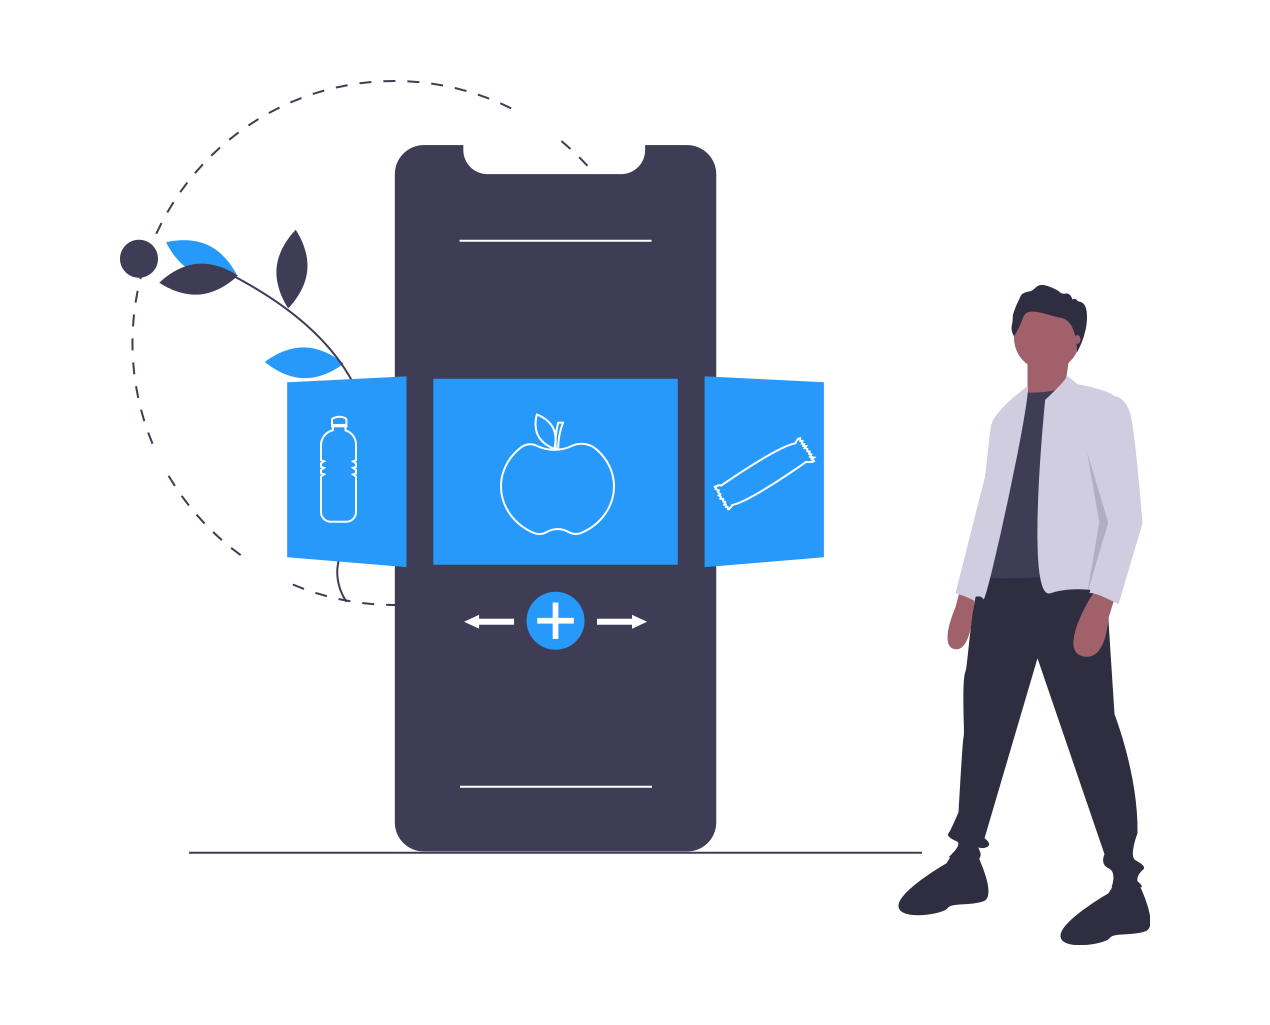
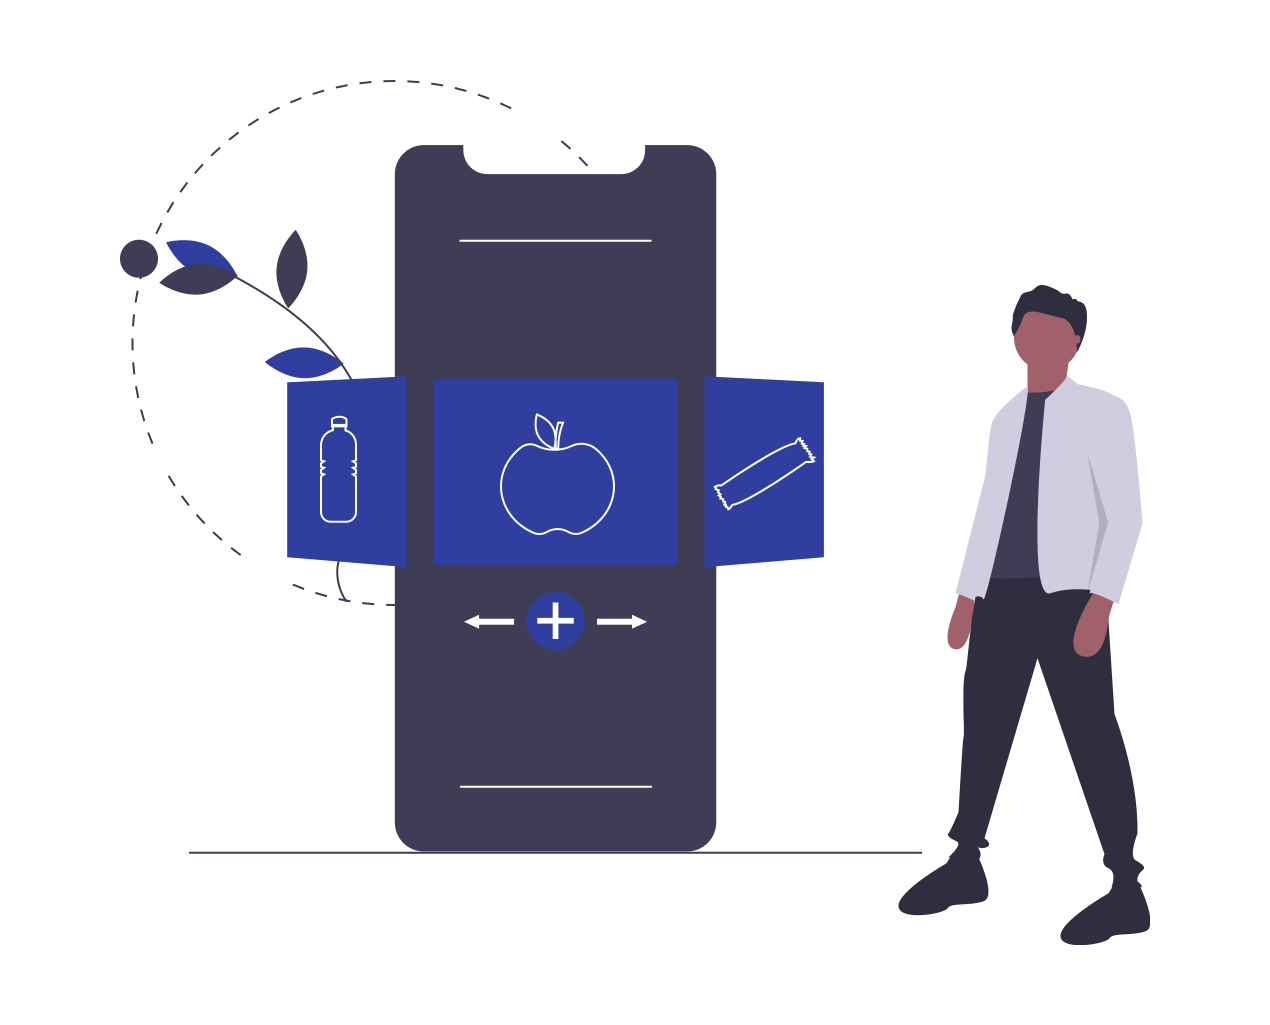
adjust onboarding colors

Changed region(s): [[0.215, 0.3434, 0.6756, 0.6556], [0.1228, 0.2185, 0.1843, 0.281]]

diff --git a/lib/pages/onboarding/main.dart b/lib/pages/onboarding/main.dart
@@ -232,7 +232,8 @@ class _OnboardingPageState extends State<OnboardingPage> {
       done: Text('Starten', style: TextStyle(fontWeight: FontWeight.w600)),
       dotsDecorator: DotsDecorator(
         size: Size(10.0, 10.0),
-        color: Color(0xFFBDBDBD),
+        color: Theme.of(context).disabledColor,
+        activeColor: Theme.of(context).primaryColor,
         activeSize: Size(22.0, 10.0),
         activeShape: RoundedRectangleBorder(
           borderRadius: BorderRadius.all(Radius.circular(25.0)),
